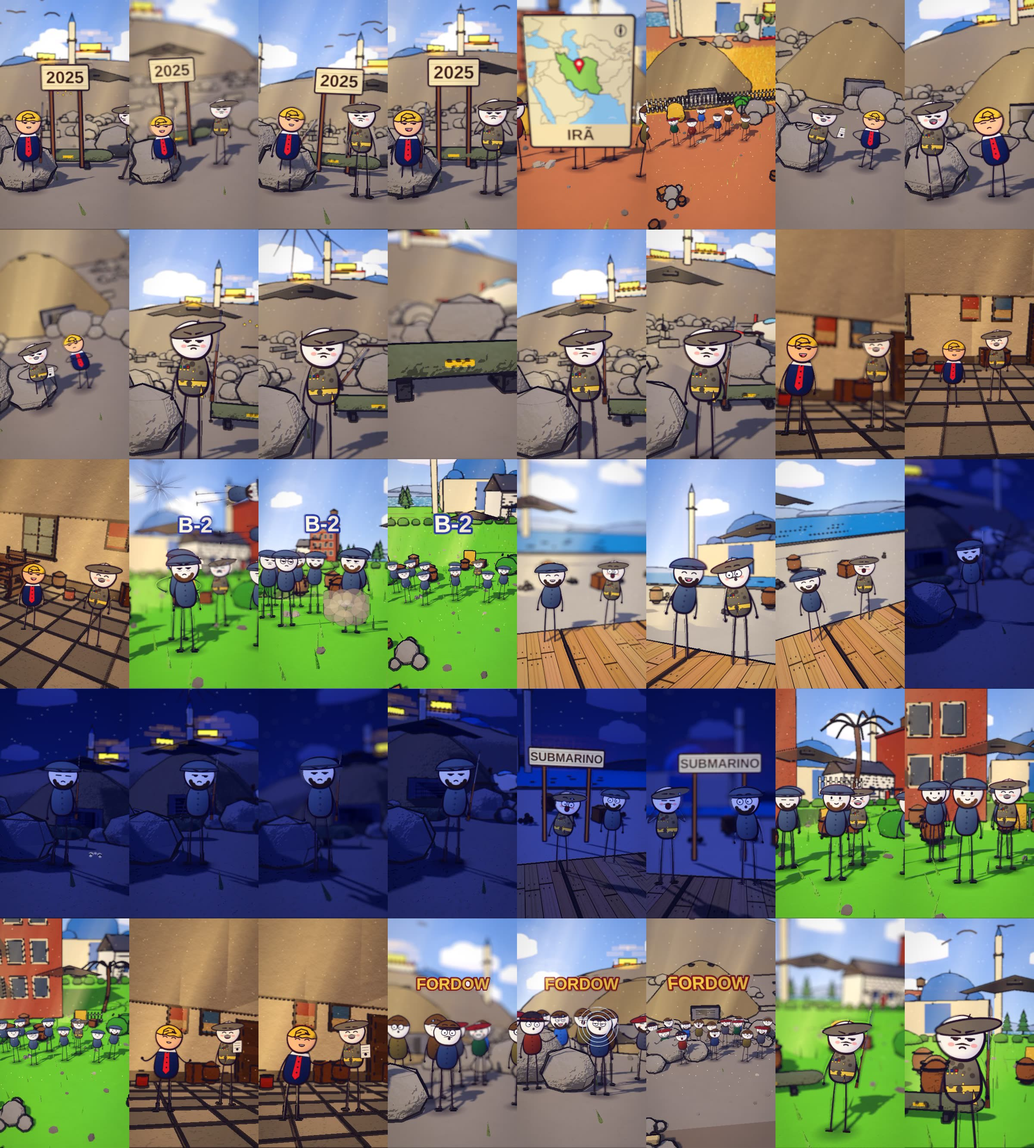
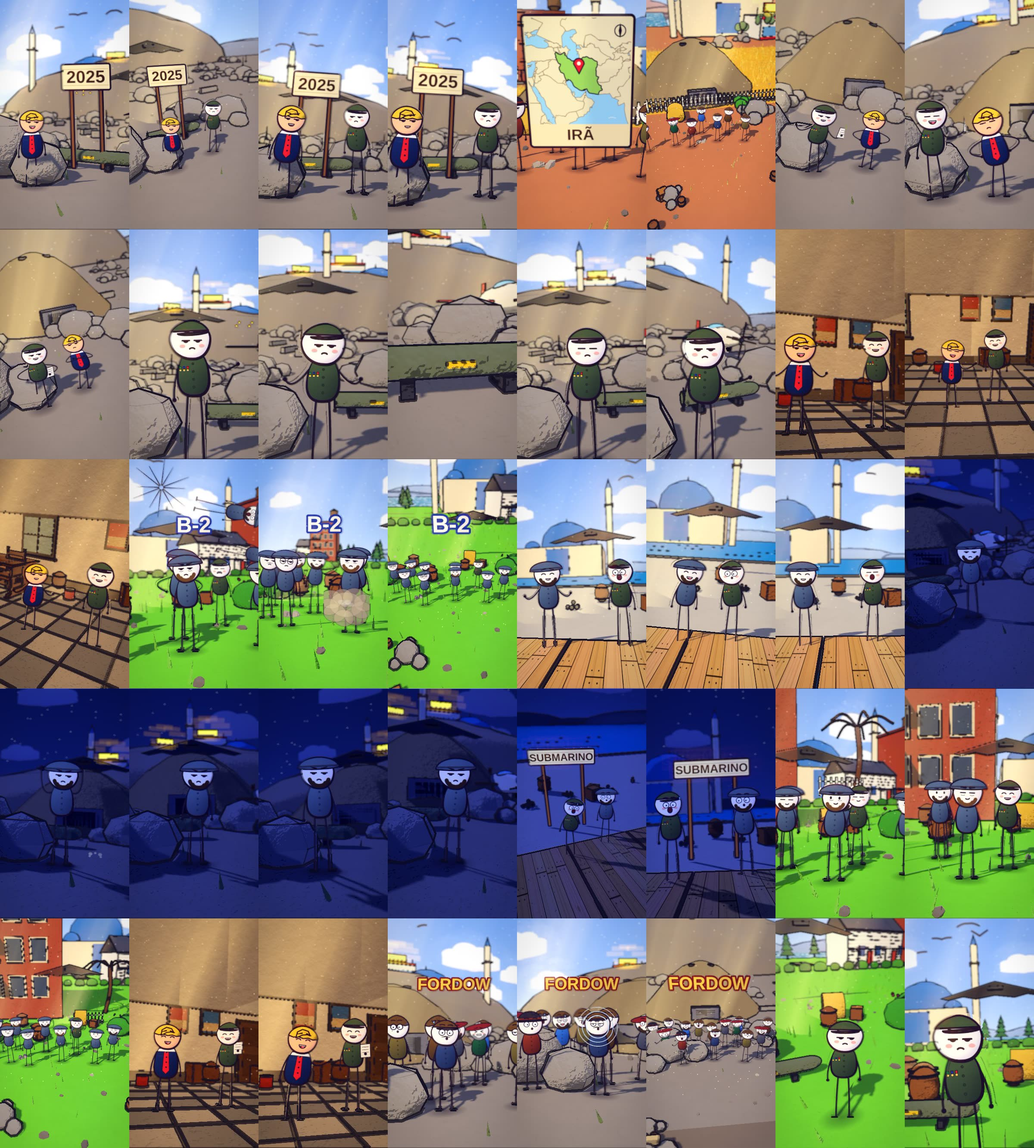
martelo2025: storyboard aprovado sem fuzil
Claude-Session: https://claude.ai/code/session_01WNYYpRLbWz2wGKzkvYWt5N

diff --git a/ferramenta-shorts/stories/martelo2025/spec.js b/ferramenta-shorts/stories/martelo2025/spec.js
@@ -4,7 +4,7 @@ const X = 3000, DK = 6; const X_countryside = 1000; const X_hall = 8000; const X
 const WS = (i, off = 0) => TIMING.words[Math.min(i, TIMING.words.length - 1)][0] + off;   // frame em que a palavra de indice i comeca
 const A = [0, WS(21, -3), WS(39, -3), WS(53, -3), WS(75, -3), WS(84, -3), WS(98, -3), WS(110, -3), WS(130, -3), WS(139, -3), WS(145, -3), WS(152, -3), WS(160, -3), TOTAL_F()];
 const SPEC = {
-  id: "martelo2025", vseed: 3, cutLen: 54, dissolveN: 7, glideN: 20, creep: 0.003, total: TOTAL_F(), sets: ["mountain", "countryside", "hall", "harbor", "outback"], setx: { mountain: X, countryside: X_countryside, hall: X_hall, harbor: X_harbor, outback: X_outback },
+  id: "martelo2025", exp: 1.12, cinf: 4.5, vseed: 3, cutLen: 54, dissolveN: 7, glideN: 20, creep: 0.003, total: TOTAL_F(), sets: ["mountain", "countryside", "hall", "harbor", "outback"], setx: { mountain: X, countryside: X_countryside, hall: X_hall, harbor: X_harbor, outback: X_outback },
   outfits: { TRU: (v = 0, e = {}) => ({ _id: "tru", jacket: "#1f2f5c", pants: "#1f2f5c", boots: "#1b1b1f", hat: "hair", hair: "#f2c84a", tie: "#d8282f", pele: "#f5c49a", build: "stout", swoop: true, collar: "#f4f4f2", skin: ["#ffe2c2", "#f5c9a0", "#ecd0b6", "#c99067"][v % 4], ...(((v + 251) % 6 === 4 && false) ? { glasses: true } : {}), ...(([1, 5].includes((v + 251) % 6) && false) ? { beard: ['#3a2a1f', '#6b4a2a', '#8a8a86'][(v + 3) % 3] } : {}), ...((((v + 251) % 6 === 3) && false) ? { moustache: ['#4a3020', '#2a201a', '#8a8a86'][v % 3] } : {}), ...e }),
     PIL: (v = 0, e = {}) => ({ _id: "pil", jacket: "#5a6a7a", pants: "#5a6a7a", boots: "#1b1b1f", hat: "helmet", cap: "#5a6a7a", uniforme_fixo: true, skin: ["#ffe2c2", "#f5c9a0", "#ecd0b6", "#c99067"][v % 4], ...(((v + 229) % 6 === 4 && true) ? { glasses: true } : {}), ...(([1, 5].includes((v + 229) % 6) && true) ? { beard: ['#3a2a1f', '#6b4a2a', '#8a8a86'][(v + 3) % 3] } : {}), ...((((v + 229) % 6 === 3) && true) ? { moustache: ['#4a3020', '#2a201a', '#8a8a86'][v % 3] } : {}), ...e }),
     GEN: (v = 0, e = {}) => ({ _id: "gen", jacket: "#4a5a3a", pants: "#4a5a3a", boots: "#1b1b1f", hat: "cap", cap: "#4a5a3a", medals: 4, epaulets: "#e8c45a", uniforme_fixo: true, skin: ["#ffe2c2", "#f5c9a0", "#ecd0b6", "#c99067"][v % 4], ...(((v + 218) % 6 === 4 && true) ? { glasses: true } : {}), ...(([1, 5].includes((v + 218) % 6) && true) ? { beard: ['#3a2a1f', '#6b4a2a', '#8a8a86'][(v + 3) % 3] } : {}), ...((((v + 218) % 6 === 3) && true) ? { moustache: ['#4a3020', '#2a201a', '#8a8a86'][v % 3] } : {}), ...e }),

diff --git a/ferramenta-shorts/stories/martelo2025/fit.js b/ferramenta-shorts/stories/martelo2025/fit.js
@@ -1,1 +1,1 @@
-SPEC.fit = {"b0":1.12,"b11":1.12,"b4~2":1.12,"b5":1.12,"b8~1":1.12,"b9":1.12};
+SPEC.fit = {"b0":1.12,"b0~1":1.254,"b11":1.12,"b4~2":1.12,"b5":1.12,"b6~2":1.254,"b8":1.254,"b8~1":1.254,"b9":1.12};

diff --git a/ferramenta-shorts/stories/martelo2025/revisao_storyboard.md b/ferramenta-shorts/stories/martelo2025/revisao_storyboard.md
@@ -1,13 +1,13 @@
-b0: OK - para destruir um bunker escondido dentro de uma montanha os Estados Unidos usaram uma bomba, placa 2025 e bomba verde com Trump e general, montanha ao fundo
+b0: OK - para destruir um bunker escondido dentro de uma montanha os Estados Unidos usaram uma arma que nunca saiu do papel, placa 2025 e arma verde no chão com Trump e general de farda verde sem fuzil
 b1: OK - em junho de dois mil e vinte e cinco o alvo eram as usinas nucleares do Irã, mapa do Irã e cena de deserto com multidão
-b2: OK - a principal Fordow fica a quase noventa metros de profundidade dentro de uma montanha, montanha com entrada de bunker e general
-b3: OK - só uma arma chegava lá a bomba antibunker com mais de treze toneladas e só um avião carrega essa bomba o B-2, close da bomba e avião asa voadora no céu
+b2: OK - a principal Fordow fica a quase noventa metros de profundidade dentro de uma montanha, montanha com entrada de bunker e general com papel
+b3: OK - só uma arma chegava lá a arma antibunker com mais de treze toneladas e só um avião carrega essa arma o B-2, close da arma no chão e general sem fuzil
 b4: OK - Trump autorizou a missão e o nome Martelo da Meia-Noite, Trump e general numa sala de pedra
-b5: OK - sete bombardeiros invisíveis B-2 decolaram do Missouri e voaram mais de um dia sem parar, texto B-2 e pilotos com poeira no campo
+b5: OK - sete bombardeiros invisíveis B-2 decolaram do Missouri e voaram mais de um dia sem parar, texto B-2 e pilotos com poeira no campo, sem tiro
 b6: OK - para despistar outros B-2 foram mandados na direção contrária para o Pacífico, pilotos e general no porto com o mar ao fundo
-b7: OK - de madrugada os aviões soltaram catorze bombas doze delas em cima de Fordow pelos respiros do bunker, cena noturna com a montanha e explosões
-b8: OK - um submarino ainda disparou mísseis contra uma terceira usina, placa SUBMARINO no porto com disparo
+b7: OK - de madrugada os aviões soltaram catorze cargas explosivas doze delas em cima de Fordow pelos respiros do bunker, cena noturna com a montanha, piloto sem fuzil
+b8: OK - um submarino ainda lançou mísseis contra uma terceira usina, placa SUBMARINO no porto à noite sem fuzil
 b9: OK - todos os aviões voltaram para casa, pilotos em grupo no campo de dia
 b10: OK - Trump disse que as usinas foram destruídas, Trump falando com o general na sala de pedra
 b11: OK - avaliações posteriores discutiram o tamanho real do estrago, multidão discutindo com texto FORDOW
-b12: OK - foi a primeira vez na história que essa bomba gigante foi usada de verdade, general e bomba no campo com explosão
+b12: OK - foi a primeira vez na história que essa arma gigante foi usada de verdade, general de farda verde e a arma no campo, sem fuzil nem clarão
